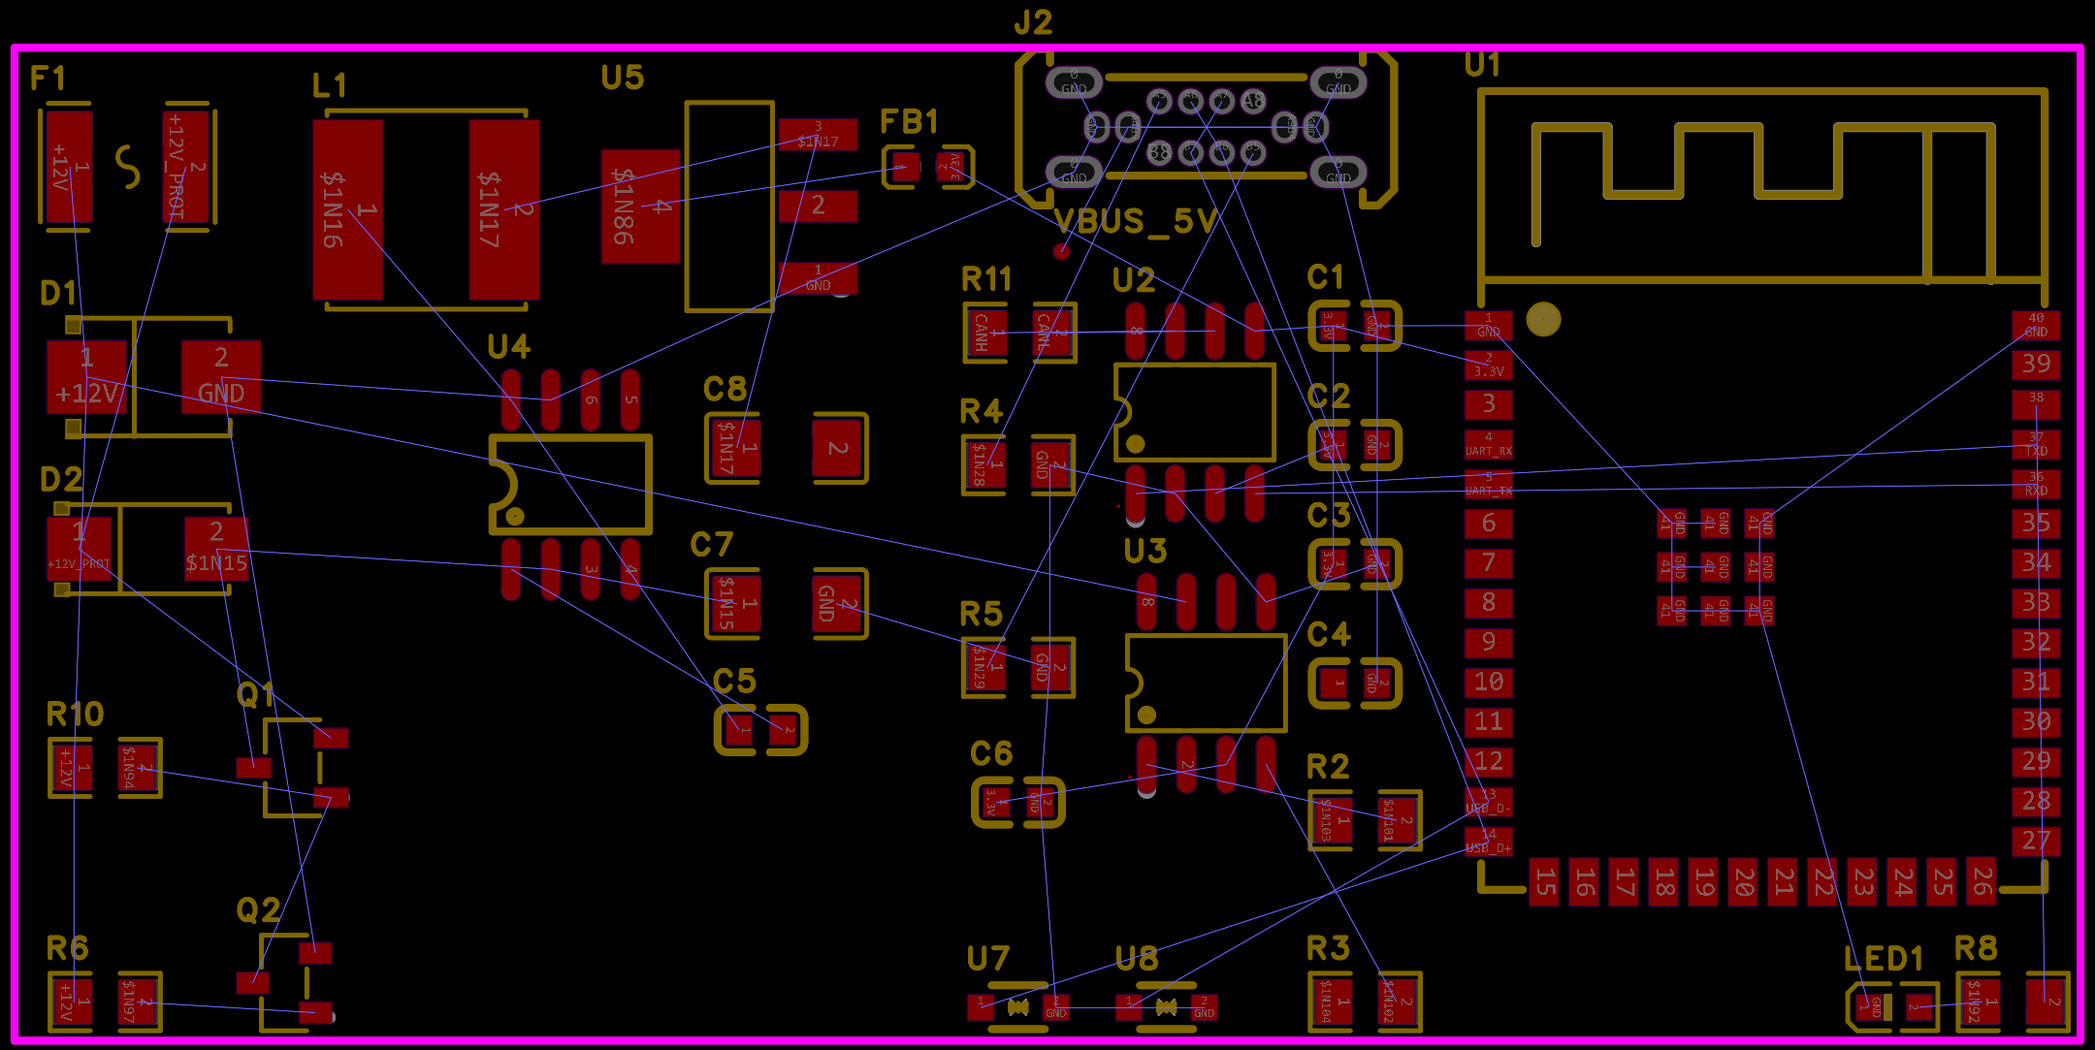
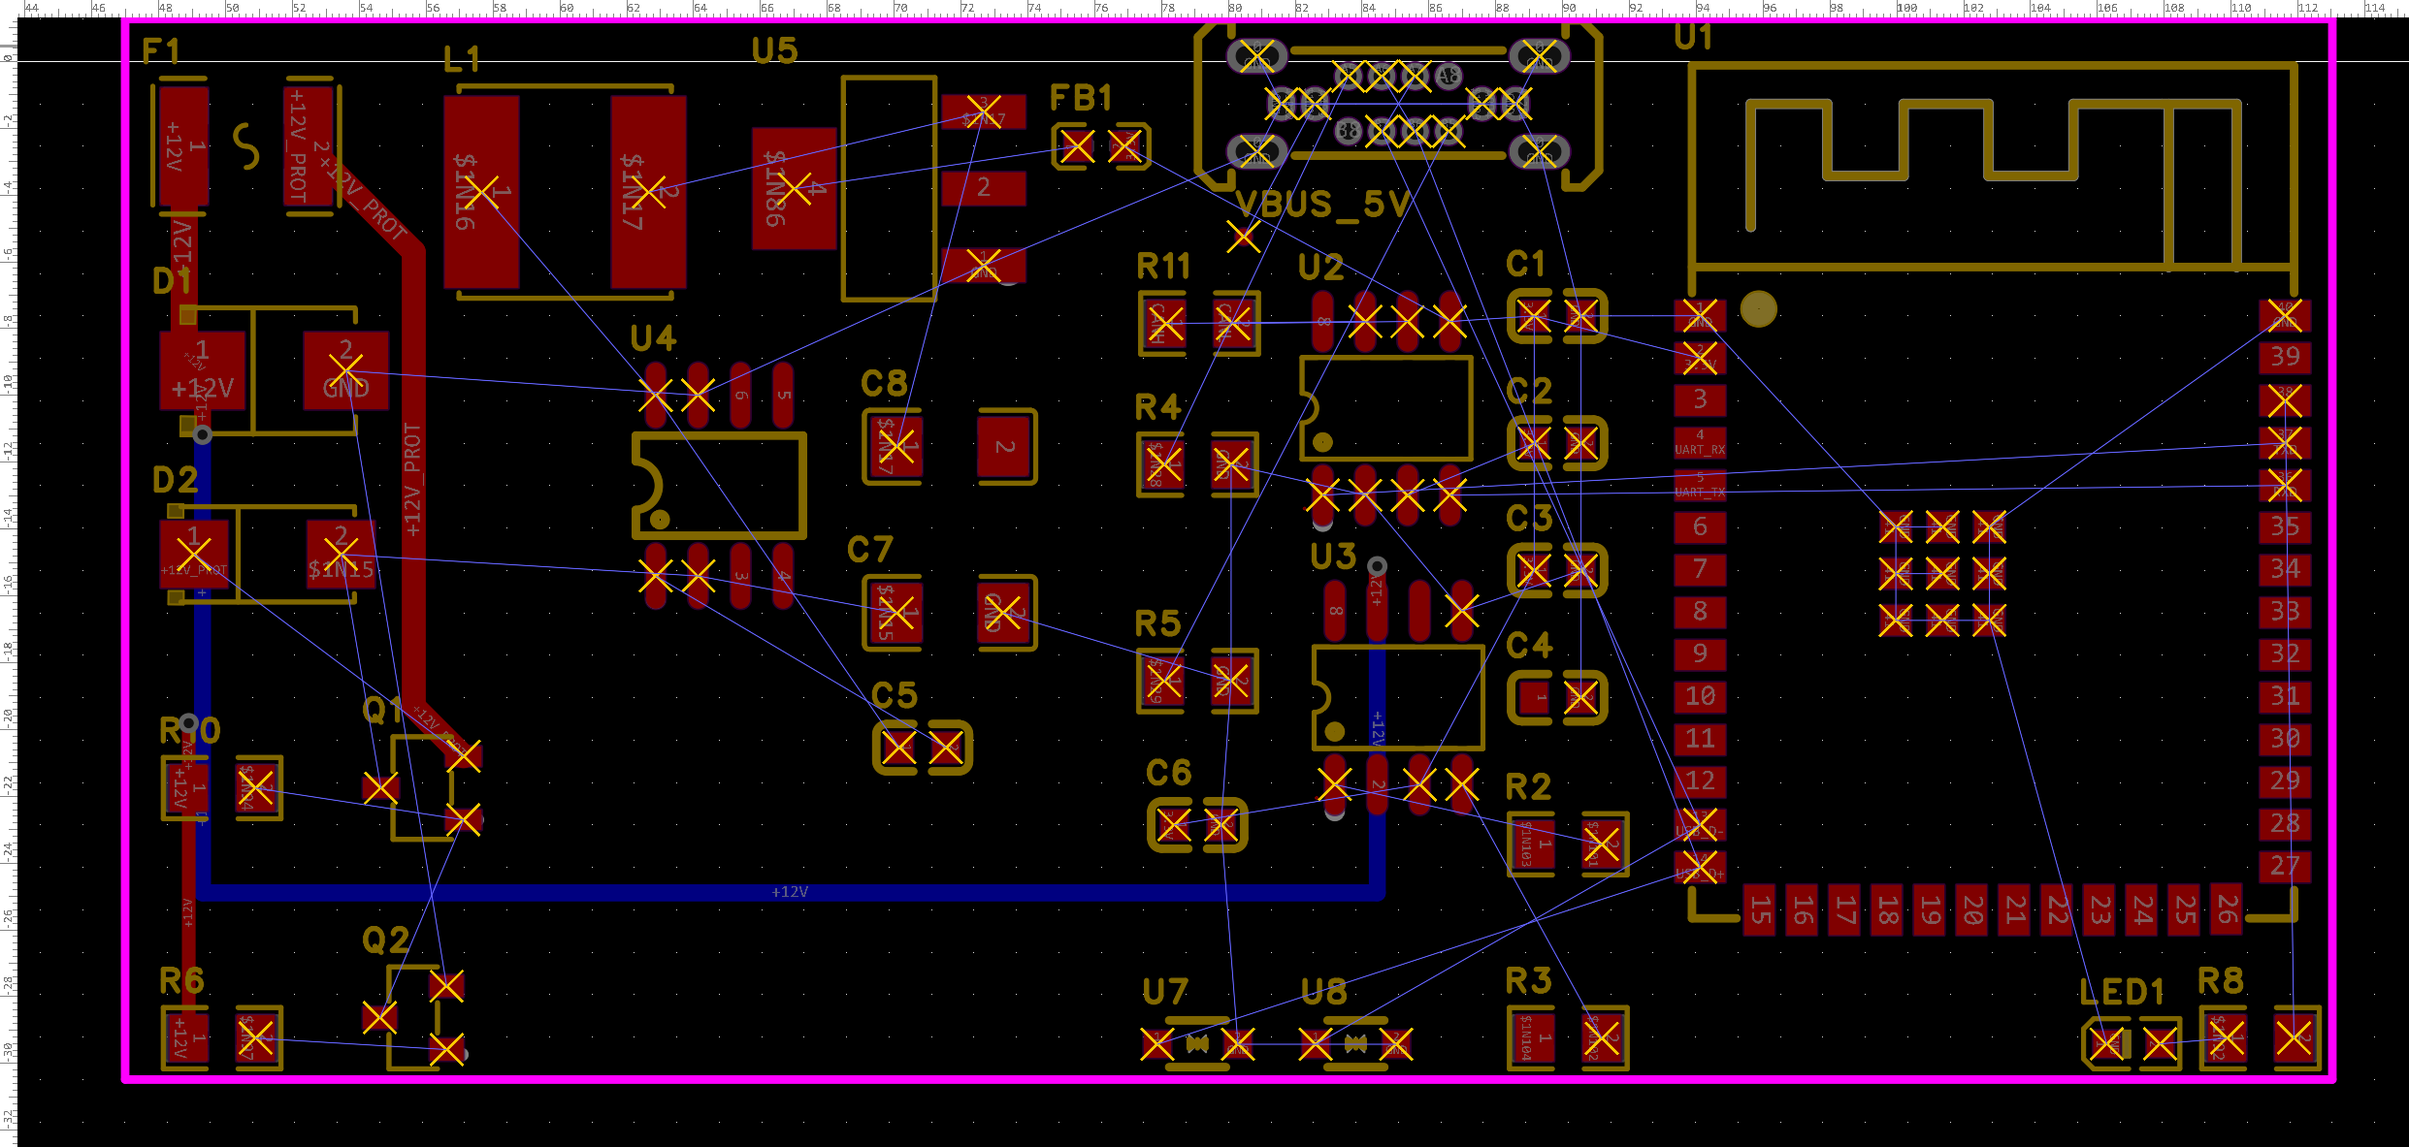
Tracé Rail +12V et Protection

diff --git a/README.md b/README.md
@@ -14,7 +14,7 @@ Projet de conception matérielle (schématique et PCB) d'un scanner de diagnosti
 * **Alimentation robuste & sécurisée :**
   * Alimentation directe depuis le 12V batterie de la prise diagnostic.
   * Protection contre les surtensions, inversions de polarité et surintensités (fusible réarmable PPTC `F1`, diode TVS `D1`, MOSFETs de protection `Q1`/`Q2`).
-  * Double étage de conversion : abaisseur à découpage performant 12V $\rightarrow$ 5V (`U4` / `L1`) suivi d'un régulateur linéaire ultra-propre 3.3V (`U5` / `FB1`) pour l'ESP32 et la logique.
+  * Double étage de conversion : abaisseur à découpage performant 12V → 5V (`U4` / `L1`) suivi d'un régulateur linéaire ultra-propre 3.3V (`U5` / `FB1`) pour l'ESP32 et la logique.
 
 ---
 
@@ -27,10 +27,10 @@ Projet de conception matérielle (schématique et PCB) d'un scanner de diagnosti
 | **Microcontrôleur & RF** | `U1` (ESP32-S3-WROOM-1-N16R8) | SMD Module | MCU Wi-Fi/BLE double cœur Xtensa LX7 (16MB Flash, 8MB PSRAM), antenne PCB intégrée. |
 | **Transceiver K-Line** | `U3` (L9637D013TR) | SOIC-8 | Émetteur-récepteur ISO 9141/KWP2000 avec protection thermique et court-circuit. |
 | **Transceiver CAN** | `U2` (TJA1051T/3/1J) | SOIC-8 | Transceiver CAN haute vitesse avec broche d'adaptation de niveau `VIO` (3.3V). |
-| **Régulateur Buck (12V $\rightarrow$ 5V)** | `U4` (TPS54331DR) | SOIC-8 | Convertisseur step-down synchrone 3.5V-28V, 3A. |
-| **Régulateur LDO (5V $\rightarrow$ 3.3V)** | `U5` (LDL1117S33R) | SOT-223-4 | LDO 3.3V 1.2A à faible chute de tension et fort réjection de bruit (PSRR). |
-| **Amortissement UART** | `R2`, `R3` ($10\,\Omega$) | 0805 | Résistances série d'amortissement sur les lignes `UART_RX` et `UART_TX` vers l'ESP32. |
-| **Terminaison CAN** | `R11` ($120\,\Omega$) | 0805 | Résistance de terminaison de ligne du bus différentiel CAN. |
+| **Régulateur Buck (12V → 5V)** | `U4` (TPS54331DR) | SOIC-8 | Convertisseur step-down synchrone 3.5V-28V, 3A. |
+| **Régulateur LDO (5V → 3.3V)** | `U5` (LDL1117S33R) | SOT-223-4 | LDO 3.3V 1.2A à faible chute de tension et fort réjection de bruit (PSRR). |
+| **Amortissement UART** | `R2`, `R3` (10 Ω) | 0805 | Résistances série d'amortissement sur les lignes `UART_RX` et `UART_TX` vers l'ESP32. |
+| **Terminaison CAN** | `R11` (120 Ω) | 0805 | Résistance de terminaison de ligne du bus différentiel CAN. |
 | **Protection ESD USB** | `U7`, `U8` (SD05C) | SOD-323 | Diodes de protection ESD bidirectionnelles sur les lignes USB D+/D-. |
 | **Protection Surtension 12V** | `D1` (SMBJ24A) | SMB | Diode TVS 24V d'écrêtage des transitoires automobiles. |
 | **Roue libre Buck** | `D2` (SS34) | SMA | Diode Schottky 40V 3A pour le découpage de `U4`. |
@@ -48,7 +48,7 @@ Inventaire extrait directement du fichier PCB actif (`PCB1`) via l'API EasyEDA P
 | **C2** | 100nF | CL10B104KB8NNNC | `C0603` | Découplage alimentation ESP32 (rail 3.3V) |
 | **C3** | 100nF | CL10B104KB8NNNC | `C0603` | Découplage alimentation transceiver CAN `U2` |
 | **C4** | 100nF | CL10B104KB8NNNC | `C0603` | Découplage alimentation transceiver K-Line `U3` |
-| **C5** | 1uF | CL10A105KA8NNNC | `C0603` | Bootstrap convertisseur Buck `U4` (broches BOOT $\rightarrow$ PH) |
+| **C5** | 1uF | CL10A105KA8NNNC | `C0603` | Bootstrap convertisseur Buck `U4` (broches BOOT → PH) |
 | **C6** | 1uF | CL10A105KA8NNNC | `C0603` | Filtrage sortie régulateur LDO `U5` (rail 3.3V) |
 | **C7** | 22uF | TCC1206X5R226K250HT | `C1206` | Condensateur réservoir entrée Buck `U4` (rail 12V VIN) |
 | **C8** | 22uF | TCC1206X5R226K250HT | `C1206` | Condensateur filtrage sortie Buck `U4` (rail 5V VOUT) |
@@ -72,8 +72,8 @@ Inventaire extrait directement du fichier PCB actif (`PCB1`) via l'API EasyEDA P
 | **U1** | 2.4GHz | ESP32-S3-WROOM-1-N16R8 | `WIRELM-SMD_ESP32-S3-WROOM-1` | SoC ESP32-S3 Wi-Fi 2.4 GHz + BLE 5.0 (16MB Flash / 8MB PSRAM) |
 | **U2** | *—* | TJA1051T/3/1J | `SOIC-8_L4.9-W3.9-P1.27-LS6.0-BL` | Transceiver CAN haute vitesse avec broche VIO (3.3V) |
 | **U3** | *—* | E-L9637D013TR | `SOIC-8_L4.9-W3.9-P1.27-LS6.0-BL` | Transceiver K-Line ISO 9141 / KWP2000 |
-| **U4** | *—* | TPS54331DR | `SOIC-8_L5.0-W4.0-P1.27-LS6.0-BL` | Régulateur abaisseur Step-Down Buck 12V $\rightarrow$ 5V, 3A |
-| **U5** | *—* | LDL1117S33R | `SOT-223-4_L6.5-W3.5-P2.30-LS7.0-BR` | Régulateur linéaire LDO 5V $\rightarrow$ 3.3V faible bruit, 1.2A |
+| **U4** | *—* | TPS54331DR | `SOIC-8_L5.0-W4.0-P1.27-LS6.0-BL` | Régulateur abaisseur Step-Down Buck 12V → 5V, 3A |
+| **U5** | *—* | LDL1117S33R | `SOT-223-4_L6.5-W3.5-P2.30-LS7.0-BR` | Régulateur linéaire LDO 5V → 3.3V faible bruit, 1.2A |
 | **U7** | *—* | SD05C_C53238084 | `SOD-323_L1.7-W1.3-LS2.5-BI` | Diode ESD bidirectionnelle protection ligne USB D+ |
 | **U8** | *—* | SD05C_C53238084 | `SOD-323_L1.7-W1.3-LS2.5-BI` | Diode ESD bidirectionnelle protection ligne USB D- |
 | **VBUS_5V**| *—* | Test-Point | `Test-Point-0.5mm` | Point de test pad cuivre pour le rail 5V USB |
@@ -101,44 +101,44 @@ Inventaire extrait directement du fichier PCB actif (`PCB1`) via l'API EasyEDA P
 ## 4. Feuille de Route & Checklist (TODO)
 
 ### 4.1 Routage des Pistes d'Alimentation
-- [ ] **Rail +12V et Protection :**
-  - [ ] Piste large ($0.8\text{ mm}$ à $1.0\text{ mm}$) reliant la broche 16 OBD $\rightarrow$ Fusible `F1` $\rightarrow$ Diode TVS `D1` $\rightarrow$ MOSFETs `Q1`/`Q2`.
-  - [ ] Piste $12\text{V}$ vers la broche 7 (`VS`) de `U3` ($0.5\text{ mm}$).
-- [ ] **Étage Buck 12V $\rightarrow$ 5V (`TPS54331DR` / `U4`) :**
-  - [ ] Boucle de commutation courte et large : `U4` (broche 8 PH), inductance `L1` ($10\,\mu\text{H}$) et diode Schottky `D2` (`SS34`).
-  - [ ] Condensateur d'entrée `C7` ($22\,\mu\text{F}$) au plus près de la broche 2 (`VIN`) de `U4`.
-  - [ ] Condensateur de sortie `C8` ($22\,\mu\text{F}$) juste après `L1`.
-  - [ ] Condensateur de bootstrap `C5` ($1\,\mu\text{F}$) entre broche 1 (`BOOT`) et broche 8 (`PH`).
+- [x] **Rail +12V et Protection :** *(Routage réalisé via l'API EasyEDA Pro)*
+  - [x] Piste large (0.8 mm à 1.0 mm) reliant la broche 16 OBD → Fusible `F1` → Diode TVS `D1` → MOSFETs `Q1`/`Q2`. *(Pistes de puissance de 35 mil / ~0.89 mm tracées sur Top Layer, reliant l'entrée F1(1) à D1(1), F1(2) vers Q1(2) et polarisation R10/R6)*
+  - [x] Piste 12V vers la broche 7 (`VS`) de `U3` (0.5 mm). *(Piste 20 mil / ~0.50 mm routée via Bottom Layer et 2 vias de 24/12 mil pour franchir l'étage de découpage central)*
+- [ ] **Étage Buck 12V → 5V (`TPS54331DR` / `U4`) :**
+  - [ ] Boucle de commutation courte et large : `U4` (broche 8 PH), inductance `L1` (10 µH) et diode Schottky `D2` (`SS34`).
+  - [ ] Condensateur d'entrée `C7` (22 µF) au plus près de la broche 2 (`VIN`) de `U4`.
+  - [ ] Condensateur de sortie `C8` (22 µF) juste après `L1`.
+  - [ ] Condensateur de bootstrap `C5` (1 µF) entre broche 1 (`BOOT`) et broche 8 (`PH`).
 - [ ] **Étage Régulation 3.3V (`LDL1117S33R` / `U5`) :**
-  - [ ] Entrée `VIN` reliée au $5\text{V}$ (`L1` / `C8`).
-  - [ ] Sortie `VOUT` vers perle de ferrite `FB1` et condensateur de filtrage `C6` ($1\,\mu\text{F}$).
-  - [ ] Distribution du rail $3.3\text{V}$ vers le réseau de découplage `C1` à `C4` ($100\text{ nF}$) puis broche 2 de l'ESP32 `U1`.
-  - [ ] Distribution $3.3\text{V}$ vers broche 5 (`VIO`) de `U2` et broche 3 (`VCC`) de `U3`.
+  - [ ] Entrée `VIN` reliée au 5V (`L1` / `C8`).
+  - [ ] Sortie `VOUT` vers perle de ferrite `FB1` et condensateur de filtrage `C6` (1 µF).
+  - [ ] Distribution du rail 3.3V vers le réseau de découplage `C1` à `C4` (100 nF) puis broche 2 de l'ESP32 `U1`.
+  - [ ] Distribution 3.3V vers broche 5 (`VIO`) de `U2` et broche 3 (`VCC`) de `U3`.
 - [ ] **Alimentation 5V :**
-  - [ ] Rail $5\text{V}$ vers broche 3 (`VCC`) du transceiver CAN `U2`.
+  - [ ] Rail 5V vers broche 3 (`VCC`) du transceiver CAN `U2`.
 
 ### 4.2 Routage des Signaux de Communication
 - [ ] **Ligne K-Line (`U3` - `L9637D013TR`) :**
-  - [ ] `UART_RX` : Broche 1 (`RX`) de `U3` $\rightarrow$ `R2` ($10\,\Omega$) $\rightarrow$ Broche 4 (`IO4`) de l'ESP32.
-  - [ ] `UART_TX` : Broche 4 (`TX`) de `U3` $\rightarrow$ `R3` ($10\,\Omega$) $\rightarrow$ Broche 5 (`IO5`) de l'ESP32.
-  - [ ] Ligne physique `K` : Broche 6 (`K`) de `U3` $\rightarrow$ Broche 7 de la prise OBD-II ($0.4\text{ mm}$ à $0.5\text{ mm}$).
+  - [ ] `UART_RX` : Broche 1 (`RX`) de `U3` → `R2` (10 Ω) → Broche 4 (`IO4`) de l'ESP32.
+  - [ ] `UART_TX` : Broche 4 (`TX`) de `U3` → `R3` (10 Ω) → Broche 5 (`IO5`) de l'ESP32.
+  - [ ] Ligne physique `K` : Broche 6 (`K`) de `U3` → Broche 7 de la prise OBD-II (0.4 mm à 0.5 mm).
 - [ ] **Bus CAN (`U2` - `TJA1051T/3/1J`) :**
-  - [ ] Lignes logiques : `TXD` (broche 1) $\rightarrow$ Broche 37 (`TXD0`) ESP32 ; `RXD` (broche 4) $\rightarrow$ Broche 36 (`RXD0`) ESP32.
-  - [ ] Mode normal : Broche 8 (`S`) $\rightarrow$ Masse `GND`.
-  - [ ] Paire différentielle CAN : `CANH` (broche 7) et `CANL` (broche 6) $\rightarrow$ Terminaison `R11` ($120\,\Omega$) $\rightarrow$ Broches 6 et 14 OBD-II *(pistes parallèles, symétriques et de même longueur)*.
+  - [ ] Lignes logiques : `TXD` (broche 1) → Broche 37 (`TXD0`) ESP32 ; `RXD` (broche 4) → Broche 36 (`RXD0`) ESP32.
+  - [ ] Mode normal : Broche 8 (`S`) → Masse `GND`.
+  - [ ] Paire différentielle CAN : `CANH` (broche 7) et `CANL` (broche 6) → Terminaison `R11` (120 Ω) → Broches 6 et 14 OBD-II *(pistes parallèles, symétriques et de même longueur)*.
 - [ ] **Port USB-C & Programmation (`J2`) :**
   - [ ] Signaux `USB_D-` et `USB_D+` depuis `J2` via protections ESD `U8` / `U7` vers broches 13 (`IO19`) et 14 (`IO20`) de l'ESP32.
-  - [ ] Résistances de configuration CC : Broches `CC1` et `CC2` de `J2` vers `R4` et `R5` ($5.1\,\text{k}\Omega$) $\rightarrow$ `GND`.
+  - [ ] Résistances de configuration CC : Broches `CC1` et `CC2` de `J2` vers `R4` et `R5` (5.1 kΩ) → `GND`.
 - [ ] **LED d'État (`LED1`) :**
-  - [ ] Broche 38 (`IO2`) ESP32 $\rightarrow$ `R8` ($1.8\,\text{k}\Omega$) $\rightarrow$ Anode `LED1` $\rightarrow$ Cathode `GND`.
+  - [ ] Broche 38 (`IO2`) ESP32 → `R8` (1.8 kΩ) → Anode `LED1` → Cathode `GND`.
 
 ### 4.3 Plan de Masse & Gestion RF
 - [ ] **Zone d'exclusion d'antenne (Keep-out Zone) :**
   - [ ] Définir une zone `Copper Keepout` sur **toutes les couches (All Layers)** sous et autour de l'antenne méandre de l'ESP32 (coin supérieur droit).
   - [ ] Garantir l'absence totale de cuivre (aucun plan de masse ni piste) pour préserver les performances radio.
 - [ ] **Plans de masse (Copper Area) :**
-  - [ ] Plan `GND` sur **Top Layer** (remplissage Solid, dégagement $0.254\text{ mm} - 0.3\text{ mm}$, Thermal Relief).
-  - [ ] Plan `GND` sur **Bottom Layer** (remplissage Solid, dégagement $0.254\text{ mm} - 0.3\text{ mm}$, Thermal Relief).
+  - [ ] Plan `GND` sur **Top Layer** (remplissage Solid, dégagement 0.254 mm - 0.3 mm, Thermal Relief).
+  - [ ] Plan `GND` sur **Bottom Layer** (remplissage Solid, dégagement 0.254 mm - 0.3 mm, Thermal Relief).
 - [ ] **Vias de couture (Stitching Vias) :**
   - [ ] Vias de masse sous le pad thermique central de l'ESP32 (broches 41).
   - [ ] Vias de masse au niveau des condensateurs de découplage et du bloc de découpage `U4`/`D2`.
@@ -250,14 +250,11 @@ asyncPrim.setState_Y(newY);
 asyncPrim.done();
 ```
 
-### 6.6 Exemples de requêtes et scripts pour ce projet
+### 6.6 Guide Pratique & Scripts Réutilisables avec le Skill EasyEDA
 
-* *"Liste les pads de U3 (L9637D013TR) et de l'ESP32 (U1), puis trace la piste UART_RX entre la broche 1 de U3 et la broche 4 de U1 en passant par R2."*
-* *"Trace la paire différentielle CAN (CANH/CANL) entre U2 et le connecteur OBD-II en pistes parallèles de même longueur."*
-* *"Crée le plan de masse GND sur Top et Bottom Layer avec un dégagement de 0.254 mm, en respectant la zone d'exclusion sous l'antenne de l'ESP32."*
-* *"Lance une vérification DRC et liste les erreurs restantes."*
+#### 6.6.1 Extraction de la nomenclature (BOM) et des empreintes depuis le PCB
 
-Exemple de script pour extraire la nomenclature complète (BOM) et les empreintes du PCB actif :
+Pour inspecter l'ensemble des composants placés sur le PCB, lire leurs valeurs, références LCSC et empreintes associées :
 
 ```javascript
 const ids = await eda.pcb_PrimitiveComponent.getAllPrimitiveId();
@@ -280,6 +277,148 @@ for (const c of components) {
   });
 }
 return results;
+```
+
+#### 6.6.2 Extraction de la géométrie des pastilles (Pads) par filet (`Net`)
+
+Avant de router une piste, il est indispensable d'interroger la position réelle des pastilles.
+* **Unités :** Les coordonnées renvoyées par l'API PCB sont exprimées en **mils** (1 mil = 0.0254 mm).
+* **Attributs clés :** `center.x`, `center.y`, `num` (numéro de broche), `parentId` (identifiant du composant parent), `topWidth`, `topHeight` (dimensions en dixièmes de mil).
+
+```javascript
+const targetNets = ['+12V', '+12V_PROT'];
+const compIds = await eda.pcb_PrimitiveComponent.getAllPrimitiveId();
+const comps = await eda.pcb_PrimitiveComponent.get(compIds);
+const compMap = new Map();
+for (const c of comps) {
+  compMap.set(c.getState_PrimitiveId(), c.getState_Designator());
+}
+
+const padGeometry = [];
+for (const net of targetNets) {
+  const prims = await eda.pcb_Net.getAllPrimitivesByNet(net);
+  for (const p of prims) {
+    padGeometry.push({
+      designator: compMap.get(p.parentId) || p.parentId,
+      padNumber: p.num,
+      net: p.net,
+      x: Math.round(p.center.x * 10) / 10,
+      y: Math.round(p.center.y * 10) / 10,
+      width_mil: Math.round((p.topWidth || 0) * 10 * 10) / 10,
+      height_mil: Math.round((p.topHeight || 0) * 10 * 10) / 10,
+      shape: p.topType
+    });
+  }
+}
+return padGeometry;
+```
+
+#### 6.6.3 Routage programmatique de pistes et vias
+
+* **Couches au runtime :** Les identifiants de couches sont numériques dans l'environnement navigateur EasyEDA Pro :
+  * `1` = `Top Layer` (couche supérieure)
+  * `2` = `Bottom Layer` (couche inférieure)
+  * `11` = `Board Outline` (contour de carte)
+* **API de tracé de ligne :** `eda.pcb_PrimitiveLine.create(net, layer, startX, startY, endX, endY, lineWidth, primitiveLock)`
+* **API de création de via :** `eda.pcb_PrimitiveVia.create(net, x, y, holeDiameter, diameter)` (dimensions standard JLCPCB : perçage 12 mil ≈ 0.3 mm, diamètre 24 mil ≈ 0.6 mm).
+
+Exemple concret exécuté pour le routage du **Rail +12V et Protection (TODO 4.1)** :
+
+```javascript
+const LAYER_TOP = 1;
+const LAYER_BOTTOM = 2;
+
+const W_POWER_12V = 35;   // ~0.89 mm (largeur de puissance 0.8 - 1.0 mm)
+const W_KLINE_12V = 20;   // ~0.50 mm (alimentation U3)
+const W_SIGNAL = 16;      // ~0.40 mm (polarisation)
+
+// 1. Tracé F1(1) -> D1(1) sur Top Layer (Net: +12V)
+await eda.pcb_PrimitiveLine.create('+12V', LAYER_TOP, 1919.6, -100.0, 1919.6, -343.0, W_POWER_12V, false);
+await eda.pcb_PrimitiveLine.create('+12V', LAYER_TOP, 1919.6, -343.0, 1941.1, -364.5, W_POWER_12V, false);
+
+// 2. Tracé F1(2) -> Q1(2) sur Top Layer (Net: +12V_PROT)
+// Piste de 28 mil (~0.71 mm) centrée à x = 2190 pour respecter les jeux avec D1 pad 2 et L1 pad 1
+const W_PROT = 28;
+await eda.pcb_PrimitiveLine.create('+12V_PROT', LAYER_TOP, 2065.6, -100.0, 2190.0, -224.4, W_PROT, false);
+await eda.pcb_PrimitiveLine.create('+12V_PROT', LAYER_TOP, 2190.0, -224.4, 2190.0, -760.5, W_PROT, false);
+await eda.pcb_PrimitiveLine.create('+12V_PROT', LAYER_TOP, 2190.0, -760.5, 2248.6, -819.1, W_PROT, false);
+
+// 3. Polarisation R10(1) -> R6(1) sur Top Layer (Net: +12V)
+await eda.pcb_PrimitiveLine.create('+12V', LAYER_TOP, 1924.9, -856.5, 1924.9, -1151.3, W_SIGNAL, false);
+
+// 4. Alimentation U3 broche 7 (+12V, 0.5 mm) via Bottom Layer
+await eda.pcb_PrimitiveVia.create('+12V', 1941.1, -440.0, 12, 24);
+await eda.pcb_PrimitiveLine.create('+12V', LAYER_TOP, 1941.1, -364.5, 1941.1, -440.0, W_KLINE_12V, false);
+await eda.pcb_PrimitiveLine.create('+12V', LAYER_BOTTOM, 1941.1, -440.0, 1941.1, -780.0, W_KLINE_12V, false);
+
+// Raccordement R10(1)
+await eda.pcb_PrimitiveVia.create('+12V', 1924.9, -780.0, 12, 24);
+await eda.pcb_PrimitiveLine.create('+12V', LAYER_BOTTOM, 1941.1, -780.0, 1924.9, -780.0, W_KLINE_12V, false);
+await eda.pcb_PrimitiveLine.create('+12V', LAYER_TOP, 1924.9, -780.0, 1924.9, -856.5, W_SIGNAL, false);
+
+// Traversée vers U3(7) sur Bottom Layer
+await eda.pcb_PrimitiveLine.create('+12V', LAYER_BOTTOM, 1941.1, -780.0, 1941.1, -980.0, W_KLINE_12V, false);
+await eda.pcb_PrimitiveLine.create('+12V', LAYER_BOTTOM, 1941.1, -980.0, 3325.0, -980.0, W_KLINE_12V, false);
+await eda.pcb_PrimitiveLine.create('+12V', LAYER_BOTTOM, 3325.0, -980.0, 3325.0, -595.0, W_KLINE_12V, false);
+
+// Via 3 vers Top Layer (y = -595 évite tout conflit avec U2 et U3 pad 8)
+await eda.pcb_PrimitiveVia.create('+12V', 3325.0, -595.0, 12, 24);
+await eda.pcb_PrimitiveLine.create('+12V', LAYER_TOP, 3325.0, -595.0, 3325.0, -647.6, W_KLINE_12V, false);
+```
+
+#### 6.6.4 Sauvegarde du PCB et vérification des longueurs
+
+Après toute session de routage :
+```javascript
+// 1. Sauvegarder les modifications dans EasyEDA Pro
+await eda.pcb_Document.save();
+
+// 2. Vérifier la longueur totale routée sur les réseaux
+const len12v = await eda.pcb_Net.getNetLength('+12V');
+const len12vProt = await eda.pcb_Net.getNetLength('+12V_PROT');
+return { len12v, len12vProt };
+```
+
+#### 6.6.5 Capture et mise à jour de l'aperçu PCB (`./images/PCB.png`)
+
+Pour exporter fidèlement la vue du circuit imprimé depuis EasyEDA Pro et mettre à jour l'image de documentation :
+
+1. **Centrage et zoom automatique :** Utiliser `eda.pcb_Document.zoomToBoardOutline()` pour cadrer la vue sur l'ensemble du contour de carte.
+2. **Extraction du canvas :** Appeler `eda.dmt_EditorControl.getCurrentRenderedAreaImage(tabId)` qui renvoie un objet standard `Blob` (PNG).
+3. **Conversion Base64 et sauvegarde :** Convertir le Blob via l'API `FileReader` du navigateur, puis écrire les octets décodés dans `images/PCB.png`.
+
+Script PowerShell / Node.js d'automatisation :
+
+```powershell
+$code = @"
+const doc = await eda.dmt_SelectControl.getCurrentDocumentInfo();
+// 1. Cadrer la vue sur le contour de carte
+await eda.pcb_Document.zoomToBoardOutline();
+await new Promise(r => setTimeout(r, 400));
+
+// 2. Récupérer le Blob du rendu canvas
+const blob = await eda.dmt_EditorControl.getCurrentRenderedAreaImage(doc.tabId);
+if (!blob) return { error: 'No blob' };
+
+// 3. Encoder en Base64 dans le contexte navigateur
+return new Promise((resolve) => {
+  const reader = new FileReader();
+  reader.onloadend = () => {
+    const base64 = reader.result.split(',')[1];
+    resolve({ success: true, base64: base64 });
+  };
+  reader.readAsDataURL(blob);
+});
+"@
+
+$body = @{ code = $code } | ConvertTo-Json
+$res = Invoke-RestMethod -Uri "http://localhost:49620/execute" -Method Post -Body $body -ContentType "application/json"
+
+if ($res.result.success -and $res.result.base64) {
+  $bytes = [Convert]::FromBase64String($res.result.base64)
+  [IO.File]::WriteAllBytes("images/PCB.png", $bytes)
+  Write-Output "PCB.png mis à jour avec succès ($($bytes.Length) octets)"
+}
 ```
 
 ### 6.7 Dépannage
